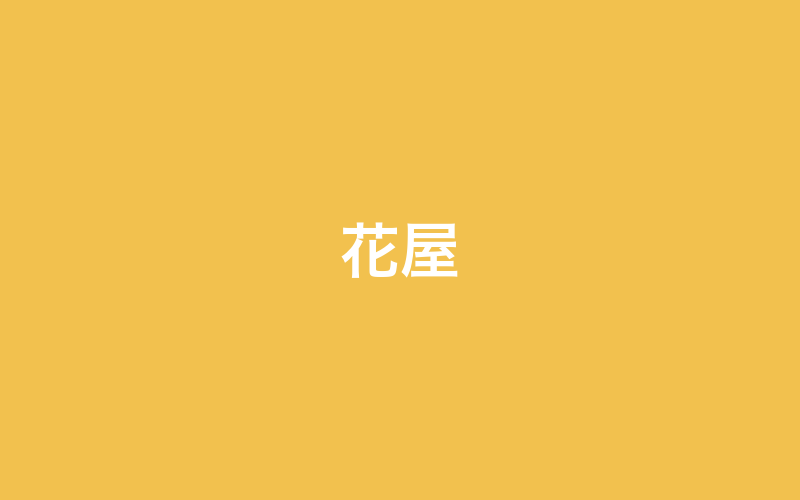
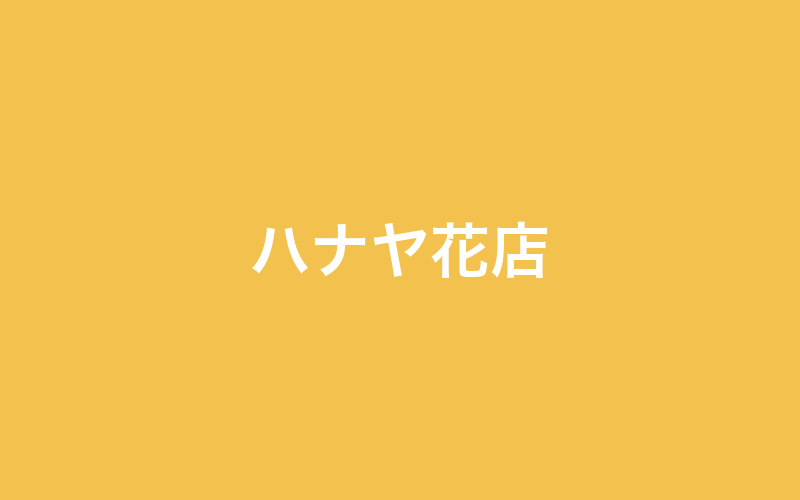
店舗名を変更し、荘司カバン店を追加
花屋→ハナヤ花店、魚屋→黒田時計店、蕎麦屋→富樫米店に名称変更し、
富樫米店のタイル背景を白に変更。新規店舗として荘司カバン店を追加。

Changed region(s): [[0.3125, 0.42, 0.6875, 0.57]]

diff --git a/stores.py b/stores.py
@@ -6,7 +6,7 @@
 STORES = [
     {
         "id": "hanaya",
-        "name": "花屋",
+        "name": "ハナヤ花店",
         "owner_name": "（オーナー名を入力）",
         "photo": "assets/hanaya.png",
         "intro": "（お店の紹介文をここに入力してください。営業時間や取り扱い商品など）",
@@ -17,7 +17,7 @@ STORES = [
     },
     {
         "id": "uoya",
-        "name": "魚屋",
+        "name": "黒田時計店",
         "owner_name": "（オーナー名を入力）",
         "photo": "assets/uoya.png",
         "intro": "（お店の紹介文をここに入力してください）",
@@ -28,13 +28,13 @@ STORES = [
     },
     {
         "id": "soba",
-        "name": "蕎麦屋",
+        "name": "富樫米店",
         "owner_name": "（オーナー名を入力）",
         "photo": "assets/soba.png",
         "intro": "地元名物の茶そばが自慢のお蕎麦屋さん。（紹介文を入力してください）",
         "question": "（オーナーへの質問をここに入力してください）",
         "secret": "gFSVTEmI_RQ",
-        "accent": ("#8A7A6B", "#C6B9A9"),
+        "accent": ("#FFFFFF", "#FFFFFF"),
         "icon": "🍵",
     },
     {
@@ -47,5 +47,16 @@ STORES = [
         "secret": "elYFXgMQQkI",
         "accent": ("#2B4570", "#7FA0C9"),
         "icon": "☕",
+    },
+    {
+        "id": "shoji_kaban",
+        "name": "荘司カバン店",
+        "owner_name": "（オーナー名を入力）",
+        "photo": "assets/shoji_kaban.png",
+        "intro": "（お店の紹介文をここに入力してください。営業時間や取り扱い商品など）",
+        "question": "（オーナーへの質問をここに入力してください。例：一番人気の商品は？）",
+        "secret": "snliMlyRBd9",
+        "accent": ("#8C6B4F", "#D2B48C"),
+        "icon": "👜",
     },
 ]
